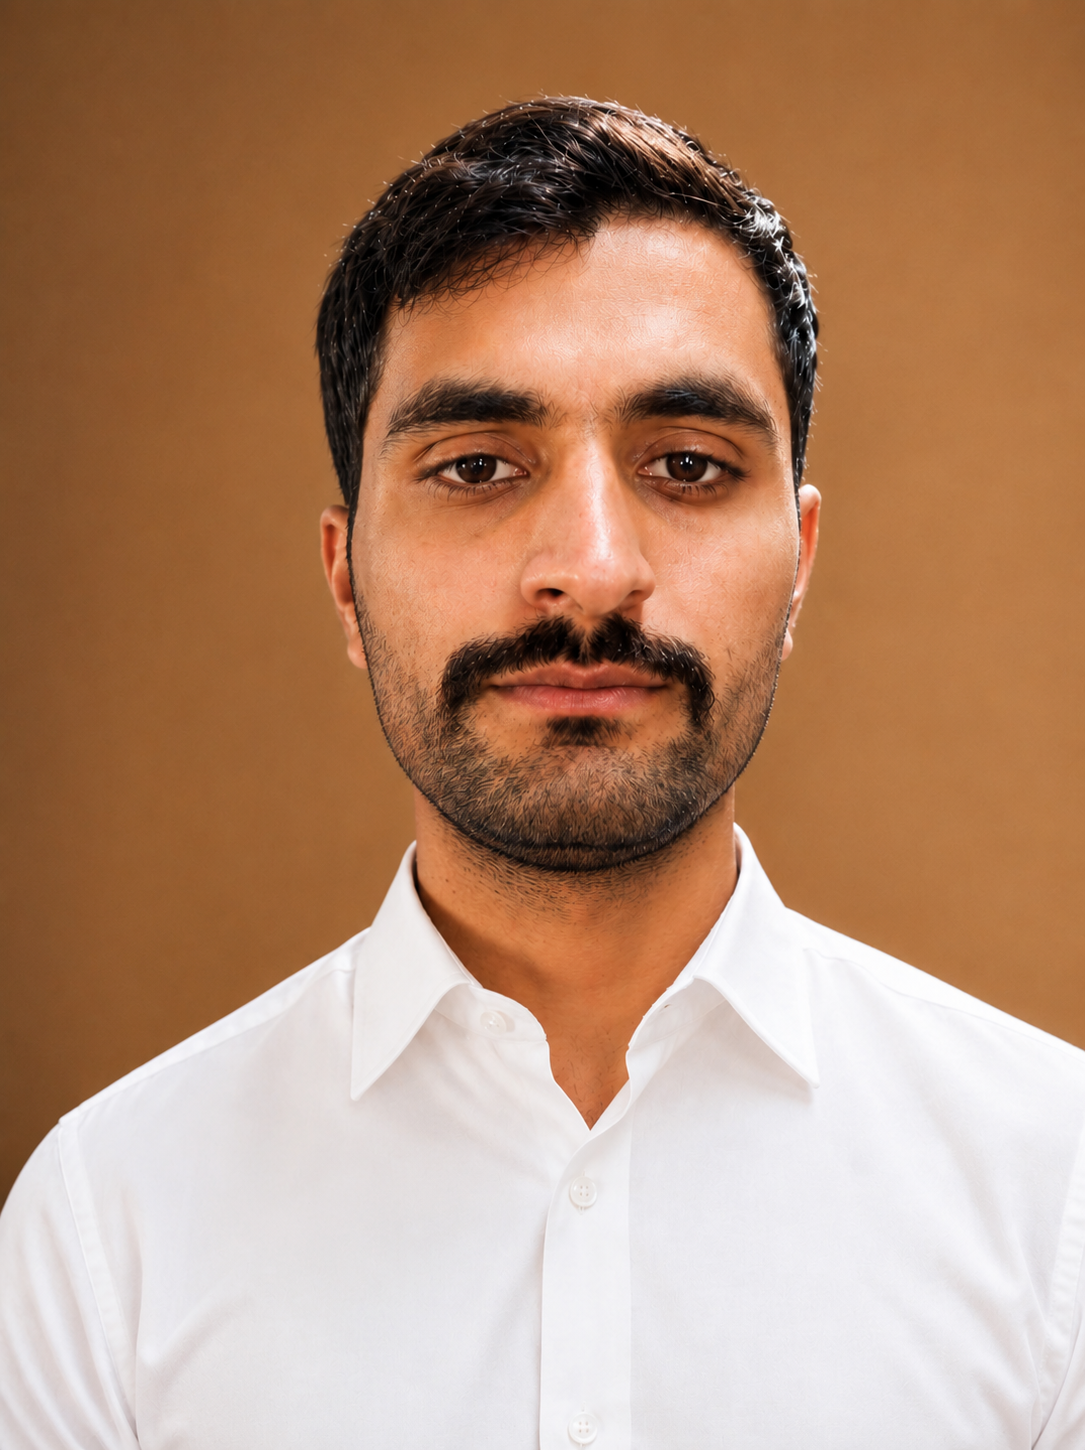
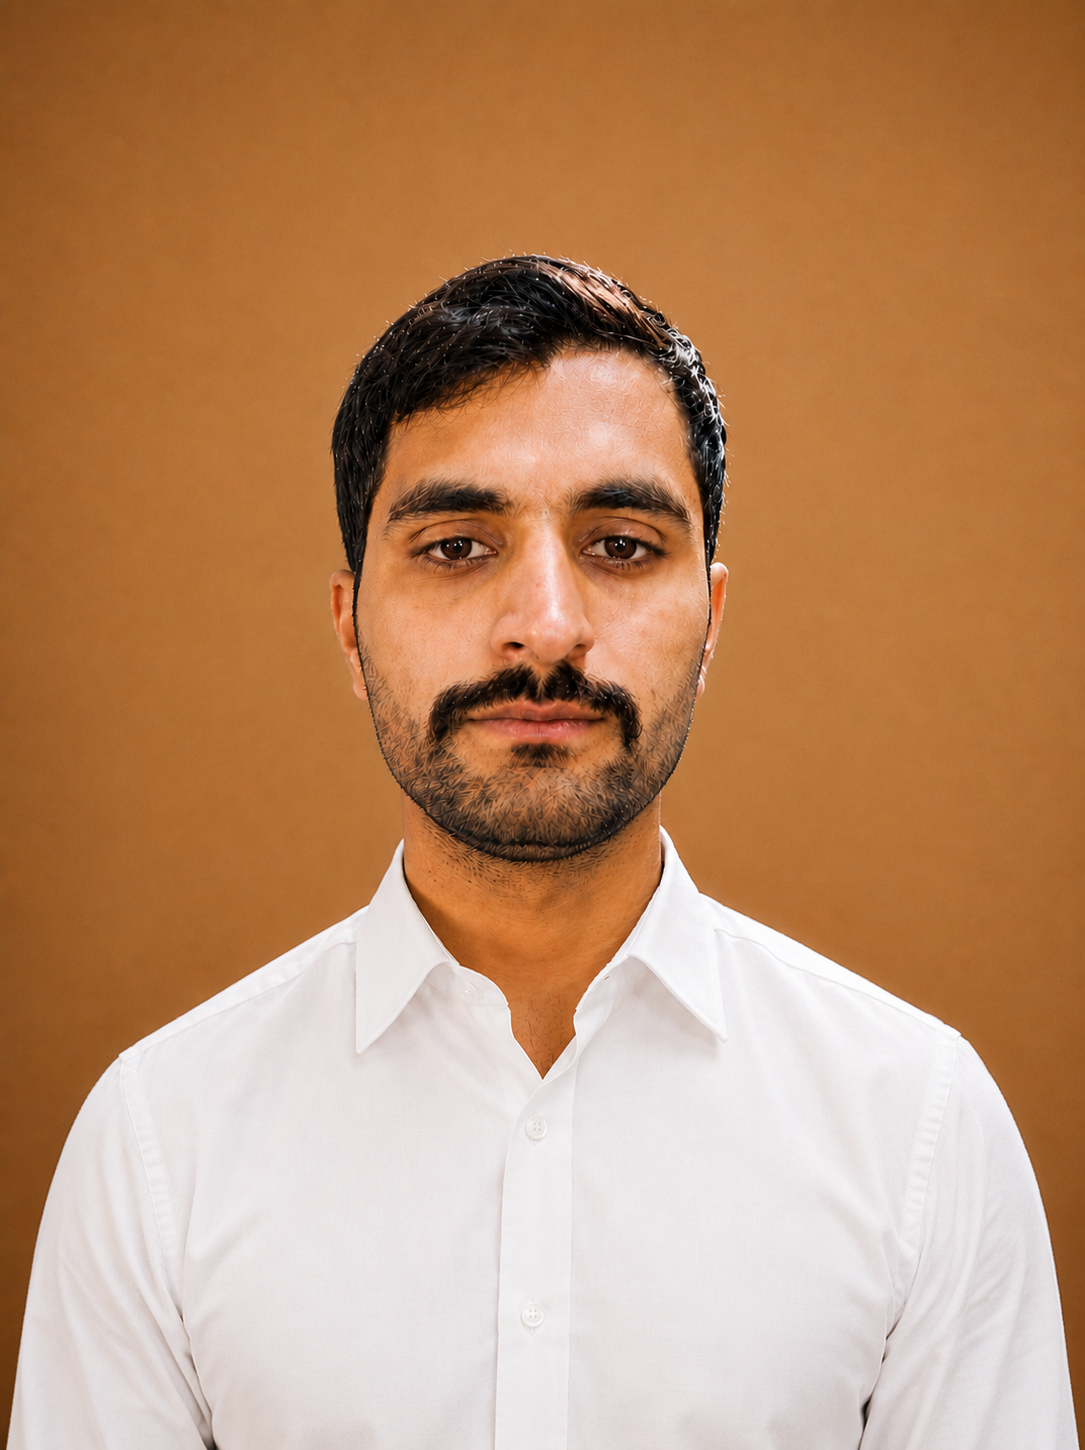
resolve issues

diff --git a/src/components/footersection.tsx b/src/components/footersection.tsx
@@ -1,21 +1,43 @@
+import { BsTwitter } from "react-icons/bs";
+import { FaFacebook } from "react-icons/fa";
+import { LiaLinkedin } from "react-icons/lia";
+import { FaYoutube } from "react-icons/fa";
 const Footer = () => {
   return (
     <footer className="mt-20  bg-black">
-      
-      <div className="mx-auto flex max-w-7xl items-center justify-center px-6 py-8">
 
-        <p className="text-center text-sm tracking-wide text-white/40">
+      <div className="mx-auto flex max-w-7xl items-center justify-center gap-12">
+
+        <p className="text-center text-sm tracking-wide  text-white/40">
           Made by{" "}
           <span className="font-medium text-[#F46C38]">
-            Asim
-          </span>{" "}
-          | Powered by{" "}
-          <span className="font-medium text-[#F46C38]">
-            React
-          </span>{" "}
-          & Tailwind CSS
+            Asim Aslam
+          </span>
         </p>
 
+      </div>
+      <div className="flex items-center md:justify-center justify-center mt-2">
+        <a href="#" className="p-2  rounded-full  transition">
+
+          <FaFacebook className="size-6 text-[#F46C38] " />
+        </a>
+        <a href="#" className="p-2  rounded-full transition">
+          <BsTwitter className="size-6 text-[#F46C38]" />
+        </a>
+        <a
+          href="https://www.linkedin.com/feed/"
+          target="_blank"
+          rel="noopener noreferrer"
+          className="rounded-full p-2 transition"
+        >
+          <LiaLinkedin className="size-6 text-[#F46C38]" />
+        </a>
+        <a href="https://www.youtube.com/"
+          target="_blank"
+          rel="noopener noreferrer"
+          className="p-2 rounded-full  transition">
+          < FaYoutube className="size-6 text-[#F46C38]" />
+        </a>
       </div>
     </footer>
   );

diff --git a/src/components/testimonialsection.tsx b/src/components/testimonialsection.tsx
@@ -1,24 +1,22 @@
 import  { useState } from "react";
 import { ChevronLeft, ChevronRight } from "lucide-react";
-import { Swiper } from 'swiper/react';
-
 const testimonials = [
   {
-    name: "William M.",
+    name: "Ahmad Hussain.",
     avatarUrl:
       "https://framerusercontent.com/images/iABb6ejla3A5ZzE4zgxiPqBaYHI.jpg",
     feedback:
       "John expertly blends design with functionality, transforming our product into a sleek experience.",
   },
   {
-    name: "Robert P.",
+    name: "Mubasir khan.",
     avatarUrl:
       "https://framerusercontent.com/images/HqoHkPp6dpJFdgMqUKIaAXmy7o.jpg",
     feedback:
       "Working with John was a pleasure. He transformed our ideas into a polished product.",
   },
   {
-    name: "James K.",
+    name: "Sulaman Akbar.",
     avatarUrl:
       "https://framerusercontent.com/images/7ckekOZAa0J28C2T3IfYTvNDv5U.jpg",
     feedback:
@@ -43,13 +41,7 @@ const TestimonialsSection = () => {
 
   return (
     <section className="w-full py-12">
-      <Swiper
-        spaceBetween={50}
-        slidesPerView={3}
-        onSlideChange={() => console.log('slide change')}
-        onSwiper={(swiper) => console.log(swiper)}
-      >
-        
+      
 
 
         {/* Heading */}
@@ -115,7 +107,7 @@ const TestimonialsSection = () => {
           </div>
 
         </div>
-      </Swiper>
+     
     </section>
   )
 }

diff --git a/src/components/ui/portfoliocard.tsx b/src/components/ui/portfoliocard.tsx
@@ -18,7 +18,7 @@ const Portfoliocard = () => {
                     <img
                         src="/images/image.png"
                         alt="portfolio"
-                        className=" h-80 w-75 rounded-[1.5rem] object-cover border border-4  "
+                        className=" h-70 w-65 rounded-[1.5rem] object-cover items-center  border-all border-4  "
                     />
 
 
@@ -31,10 +31,10 @@ const Portfoliocard = () => {
                 <h2 className="text-3xl font-black text-black  tracking-tight">
                     Asim Aslam
                 </h2>
-                <p className="text-md text-[#6A6B6E] mt-12 font-semibold leading-snug">
-                    A Web developer who has developed countless innovative solutions.
+                <p className="text-lg text-[#6A6B6E]  mt-12 font-semibold leading-snug">
+                    Passionate Web Developer turning ideas into fast, interactive, and visually engaging websites.
                 </p>
-                <div className="flex items-center md:justify-center justify-center gap-2 mt-4">
+                <div className="flex items-center md:justify-center justify-center gap-2 mt-6">
                     <a href="#" className="p-2  rounded-full  transition">
 
                         <FaFacebook className="size-6 text-[#F46C38] " />

diff --git a/src/components/experiencesection.tsx b/src/components/experiencesection.tsx
@@ -49,7 +49,7 @@ const Experience = () => {
         {/* Heading */}
         <div className="mb-14">
           <h2 className="text-4xl text-center lg:text-6xl lg:text-start font-black leading-none text-white">
-            2 YEARS OF<br/>
+            1 YEARS OF<br/>
             <span className="text-[#B6B4BD33]">
               EXPERIENCE
             </span>
@@ -64,7 +64,7 @@ const Experience = () => {
               href={blog.link || "#"}
               target="_blank"
               rel="noopener noreferrer"
-              className="group block border border-white/10 rounded-3xl p-6 hover:bg-[#F46C38] hover:border-white/5 transition-all duration-500"
+              className="group block border border-white/10 rounded-3xl p-6 hover:bg-[#F46C38] hover:border-white/5 transition-all duration-100"
             >
               <div className="flex flex-col md:flex-row gap-6 items-start">
 
@@ -89,7 +89,7 @@ const Experience = () => {
                     </div>
 
                     {/* Arrow */}
-                    <div className="hidden md:flex items-center justify-center w-14 h-14 rounded-full bg-[#F46C38] text-white text-2xl group-hover:bg-white group-hover:text-[#F46C38] transition">
+                    <div className="hidden md:flex items-center justify-center w-14 h-14 rounded-full bg-[#F46C38] text-white text-2xl group-hover:bg-white group-hover:text-[#F46C38] transition-all duration-100">
                       ↗
                     </div>
 

diff --git a/src/App.tsx b/src/App.tsx
@@ -36,8 +36,8 @@ function App() {
             <Herosection />
             <Projectcard />
             <Experience/>
-            <TestimonialsSection/>
             <Skills/>
+            <TestimonialsSection/>
             <Contact />
             <FAQSection />
            

diff --git a/src/components/faqsection.tsx b/src/components/faqsection.tsx
@@ -46,7 +46,7 @@ const FAQSection = () => {
       id="faq"
       className="py-4  bg-black text-white"
     >
-      <div className="max-w-7xl mx-auto px-8">
+      <div className="max-w-7xl  px-8">
         <div className="text-center md:text-left px-4">
           <h2 className="text-4xl lg:text-7xl lg:text-start text-white md:text-6xl mb-8  font-bold">
             Frequently

diff --git a/src/components/herosection.tsx b/src/components/herosection.tsx
@@ -2,7 +2,7 @@
 
 const stats = [
     {
-        number: "+2",
+        number: "+1",
         line1: "YEARS OF",
         line2: "EXPERIENCE",
     },